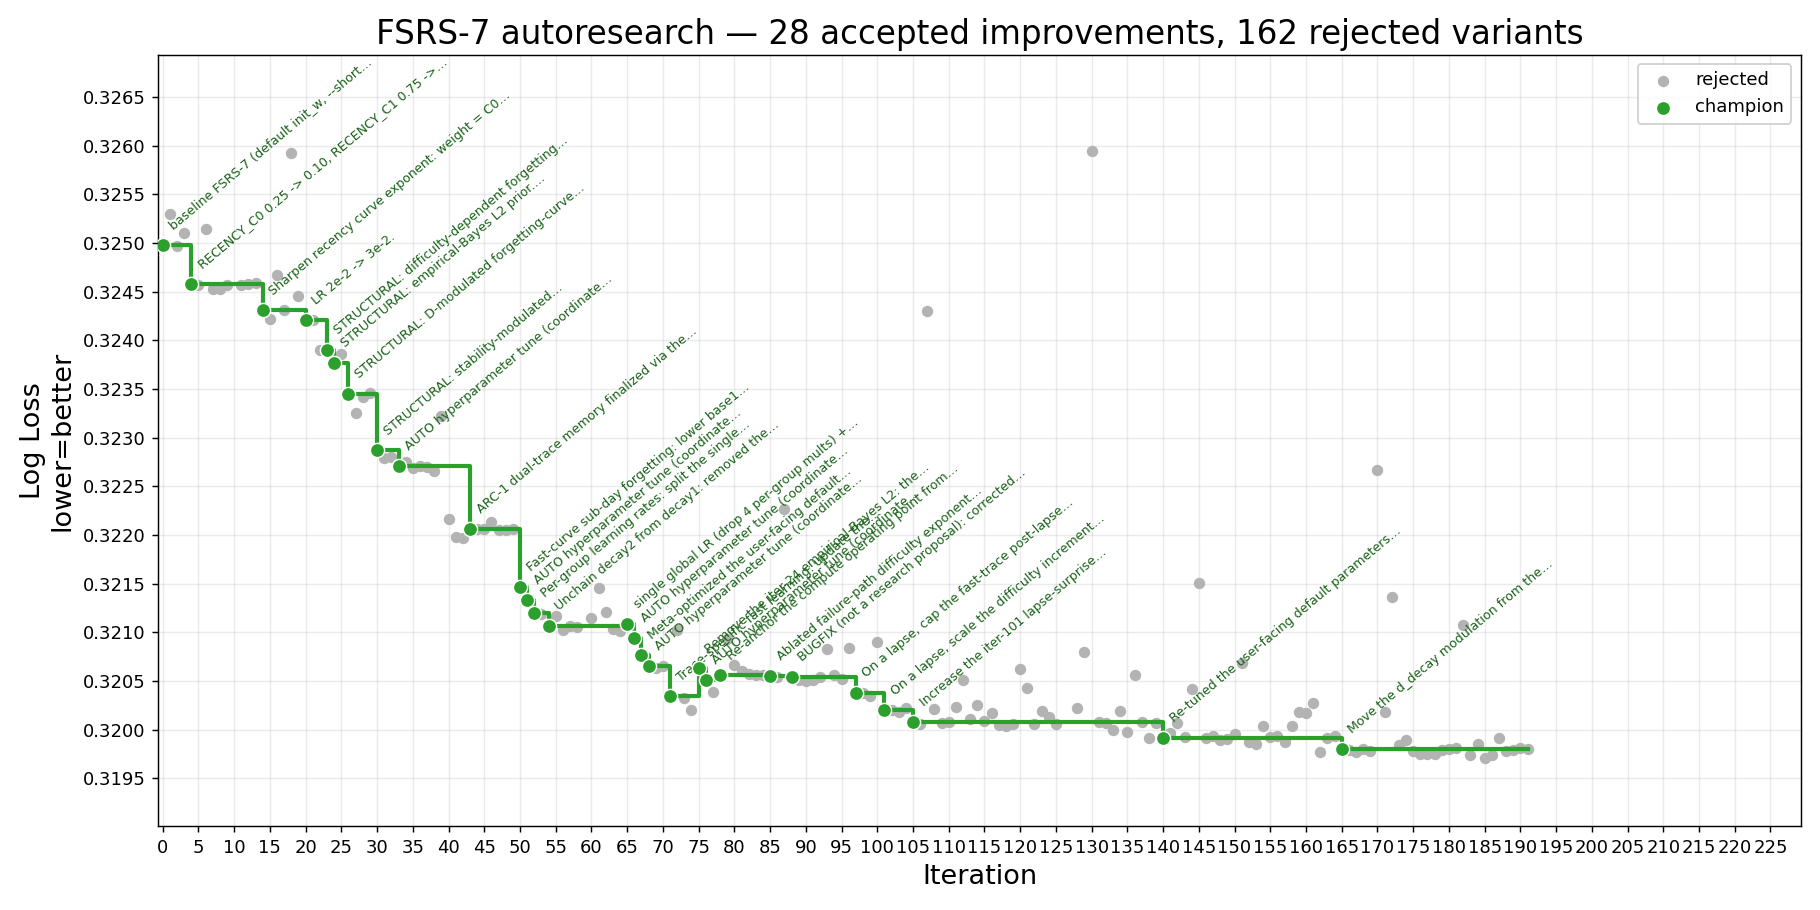
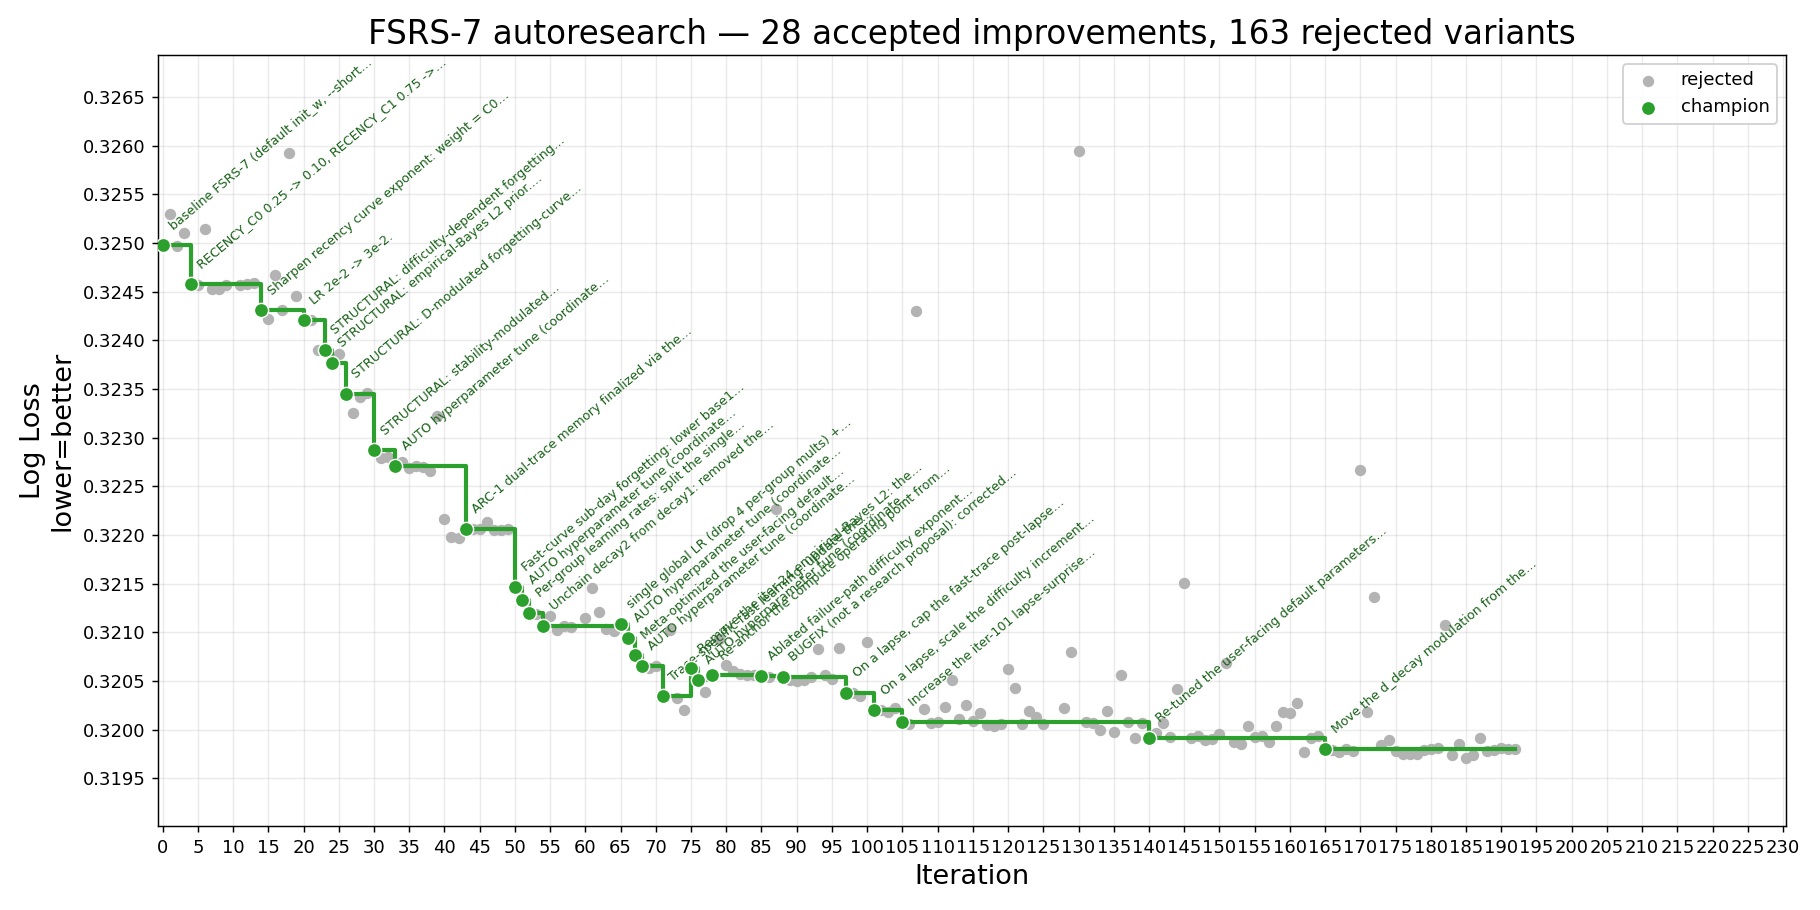
iter-192 rejected (+3.6e-6): S-side Hard-surprise saturates at noise level; surprise family mapped on both channels

diff --git a/result/history.md b/result/history.md
@@ -1,6 +1,6 @@
 # FSRS-7 autoresearch — iteration history
 
-_191 record(s). Generated from `history.jsonl` — do not edit by hand._
+_192 record(s). Generated from `history.jsonl` — do not edit by hand._
 
 | # | Time (UTC) | Thresh. | LL before | LL after | Δ LL | Cx before | Cx after | Δ Cx % | Status | Summary |
 |--:|---|---:|---:|---:|---:|---:|---:|---:|---|---|
@@ -195,3 +195,4 @@ _191 record(s). Generated from `history.jsonl` — do not edit by hand._
 | 189 | 2026-06-10T18:40:49 | 0.0001 | 0.31980 | 0.31979 | +0.00001 | 17,631 | 17,687 | +0.32% | rejected | Replace Adam with NAdam (Nesterov numerator: beta1*m_hat + (1-beta1)*g_hat, plain bias correction); bundled hp_tune. |
 | 190 | 2026-06-10T18:53:25 | 0.0001 | 0.31980 | 0.31981 | -0.00001 | 17,631 | 17,700 | +0.39% | rejected | Additive encoding floor on long-trace success stability: new_s_long >= s_long + delta, fixed delta swept 0.05/0.15/0.4. |
 | 191 | 2026-06-10T19:18:31 | 0.0001 | 0.31980 | 0.31980 | +0.00000 | 17,631 | 17,631 | +0.00% | rejected | AUTO hyperparameter tune (coordinate descent over training hyperparameters (LR/betas/L2/recency C0+EXP)): best candidate none. |
+| 192 | 2026-06-10T19:31:36 | 0.0001 | 0.31980 | 0.31980 | +0.00000 | 17,631 | 17,652 | +0.12% | rejected | Hard-rating high-R stability discount: hard_penalty *= (1 - c*max(0, R-0.9)), fixed c swept 2/5. |
